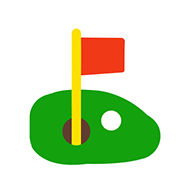
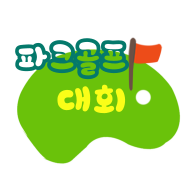
아이콘과 앱이름 파크골프대회로 변경

diff --git a/src/app/layout.tsx b/src/app/layout.tsx
@@ -6,7 +6,7 @@ import AppNameUpdater from "@/components/AppNameUpdater"
 import ServiceWorkerRegistration from "@/components/ServiceWorkerRegistration"
 
 export const metadata: Metadata = {
-  title: '대회관리',
+  title: '파크골프대회',
   description: '파크골프 대회 점수 관리 시스템',
 };
 
@@ -22,7 +22,7 @@ export default function RootLayout({
         <meta name="viewport" content="width=device-width, initial-scale=1, maximum-scale=5, user-scalable=yes" />
         <link rel="manifest" href="/api/manifest" />
         <meta name="theme-color" content="#ffffff" />
-        <meta name="apple-mobile-web-app-title" content="대회관리" />
+        <meta name="apple-mobile-web-app-title" content="파크골프대회" />
         <link rel="apple-touch-icon" href="/icon-192x192.png"></link>
         <link rel="preconnect" href="https://fonts.googleapis.com" />
         <link rel="preconnect" href="https://fonts.gstatic.com" crossOrigin="anonymous" />

diff --git a/src/components/AppNameUpdater.tsx b/src/components/AppNameUpdater.tsx
@@ -5,7 +5,7 @@ import { useEffect } from 'react';
 export default function AppNameUpdater() {
     useEffect(() => {
         // 정적 앱 이름 설정
-        document.title = '대회관리';
+        document.title = '파크골프대회';
 
         // apple-mobile-web-app-title meta 태그 업데이트
         let metaTag = document.querySelector('meta[name="apple-mobile-web-app-title"]');
@@ -14,7 +14,7 @@ export default function AppNameUpdater() {
             metaTag.setAttribute('name', 'apple-mobile-web-app-title');
             document.head.appendChild(metaTag);
         }
-        metaTag.setAttribute('content', '대회관리');
+        metaTag.setAttribute('content', '파크골프대회');
     }, []);
 
     return null;

diff --git a/src/app/api/manifest/route.ts b/src/app/api/manifest/route.ts
@@ -3,8 +3,8 @@ import { NextResponse } from 'next/server';
 export async function GET(request: Request) {
     const manifest = {
         id: "/",
-        name: "대회관리",
-        short_name: "대회관리",
+        name: "파크골프대회",
+        short_name: "파크골프대회",
         theme_color: "#e85461",
         background_color: "#ffffff",
         display: "standalone",

diff --git a/netlify/functions/manifest.ts b/netlify/functions/manifest.ts
@@ -3,8 +3,8 @@ import { Handler } from '@netlify/functions';
 export const handler: Handler = async (event, context) => {
   const manifest = {
     id: "/",
-    name: "대회관리",
-    short_name: "대회관리",
+    name: "파크골프대회",
+    short_name: "파크골프대회",
     theme_color: "#e85461",
     background_color: "#ffffff",
     display: "standalone",

diff --git a/public/sw.js b/public/sw.js
@@ -1,5 +1,5 @@
 // Service Worker for PWA
-const CACHE_NAME = 'parkscore-v4';
+const CACHE_NAME = 'parkscore-v5';
 const urlsToCache = [
   '/',
   '/icon-192x192.png',
